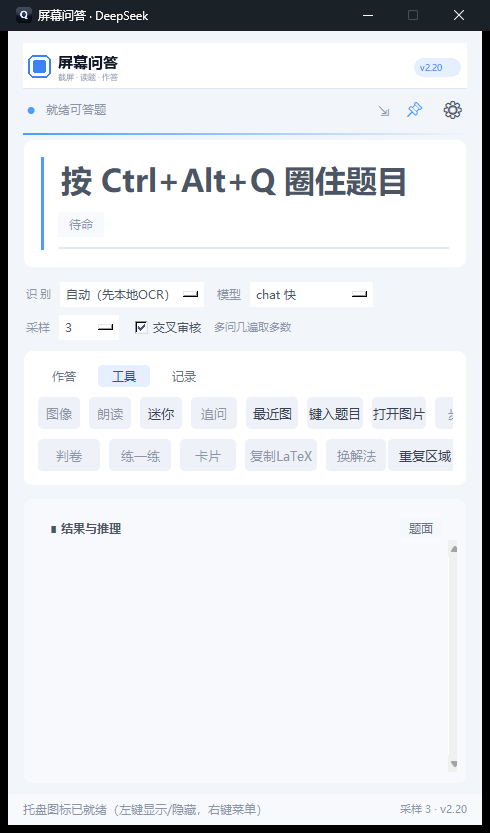
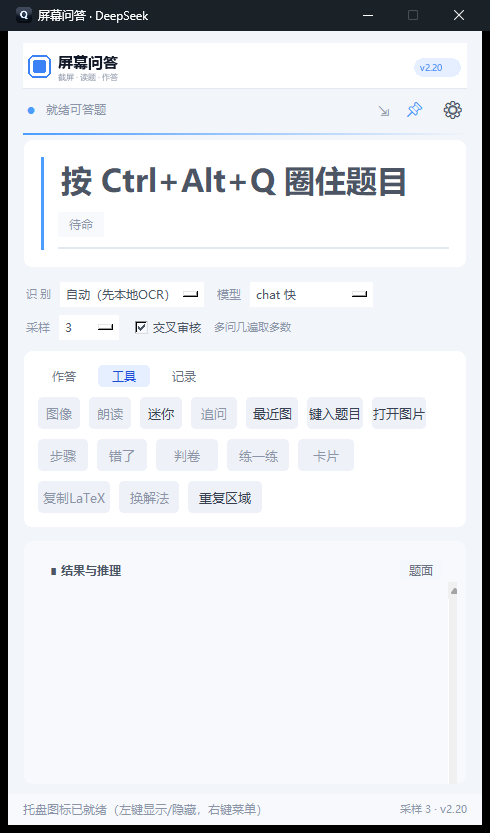
v2.20 工具页布局

diff --git a/app.py b/app.py
@@ -1377,18 +1377,20 @@ class App:
                            kind="ghost", width=56)
         self.b_open.pack(side="left", padx=(7, 0))
 
-        self.b_steps = Pill(bar3, prompts.L("steps"), self.copy_steps,
-                            kind="ghost", width=54)
-        self.b_steps.pack(side="right", padx=(7, 0))
-        self.b_steps.set_enabled(False)
-        self.b_bad = Pill(bar3, prompts.L("bad"), self.mark_error,
-                          kind="ghost", width=54)
-        self.b_bad.pack(side="right", padx=(7, 0))
-        self.b_bad.set_enabled(False)
+        # 「步骤 / 错了」放到第四行左侧，避免第三行（7 个按钮）溢出
+        _bar4_placeholder = None
 
         # 第四行：判卷 / 练一练 / 导出卡片 / 重复上次区域
         bar4 = tk.Frame(self.pages["\u5de5\u5177"], bg=UI["card"])
         bar4.pack(fill="x", pady=(8, 0))
+        self.b_steps = Pill(bar4, prompts.L("steps"), self.copy_steps,
+                            kind="ghost", width=52)
+        self.b_steps.pack(side="left", padx=(0, 7))
+        self.b_steps.set_enabled(False)
+        self.b_bad = Pill(bar4, prompts.L("bad"), self.mark_error,
+                          kind="ghost", width=52)
+        self.b_bad.pack(side="left", padx=(0, 7))
+        self.b_bad.set_enabled(False)
         self.b_judge = Pill(bar4, prompts.JUDGE_LABEL, self.judge_answer,
                             kind="ghost", width=64)
         self.b_judge.pack(side="left")
@@ -1401,17 +1403,19 @@ class App:
                            kind="ghost", width=58)
         self.b_card.pack(side="left", padx=(7, 0))
         self.b_card.set_enabled(False)
-        self.b_latex = Pill(bar4, prompts.LATEX_LABEL, self.copy_latex,
+        bar5 = tk.Frame(self.pages["\u5de5\u5177"], bg=UI["card"])
+        bar5.pack(fill="x", pady=(8, 0))
+        self.b_latex = Pill(bar5, prompts.LATEX_LABEL, self.copy_latex,
                             kind="ghost", width=74)
-        self.b_latex.pack(side="left", padx=(7, 0))
+        self.b_latex.pack(side="left")
         self.b_latex.set_enabled(False)
-        self.b_alt = Pill(bar4, prompts.ALT_LABEL, self.alt_method,
+        self.b_alt = Pill(bar5, prompts.ALT_LABEL, self.alt_method,
                           kind="ghost", width=62)
         self.b_alt.pack(side="left", padx=(7, 0))
         self.b_alt.set_enabled(False)
-        self.b_repeat = Pill(bar4, prompts.REPEAT_LABEL, self.repeat_region,
+        self.b_repeat = Pill(bar5, prompts.REPEAT_LABEL, self.repeat_region,
                              kind="ghost", width=76)
-        self.b_repeat.pack(side="right")
+        self.b_repeat.pack(side="left", padx=(7, 0))
 
         # 一屏多题时，这里会冒出「复制第 N 题」按钮；空的时候不占高度
         self.multi_bar = tk.Frame(wrap, bg=bg)
